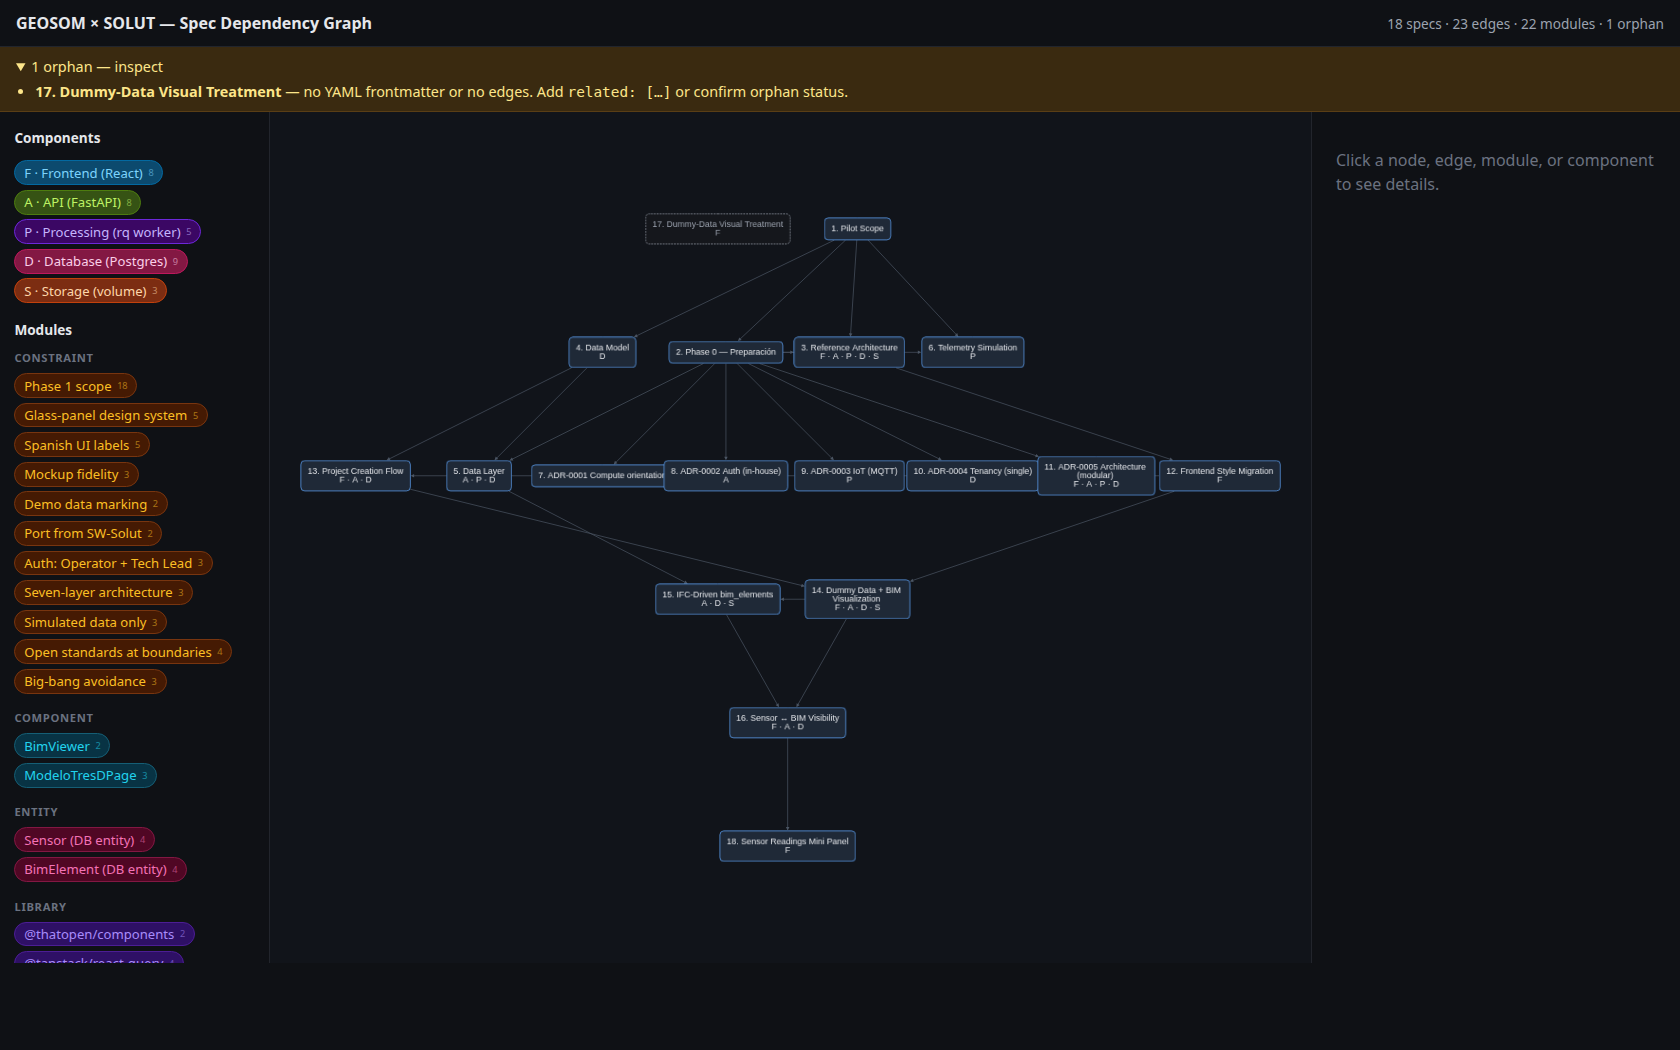
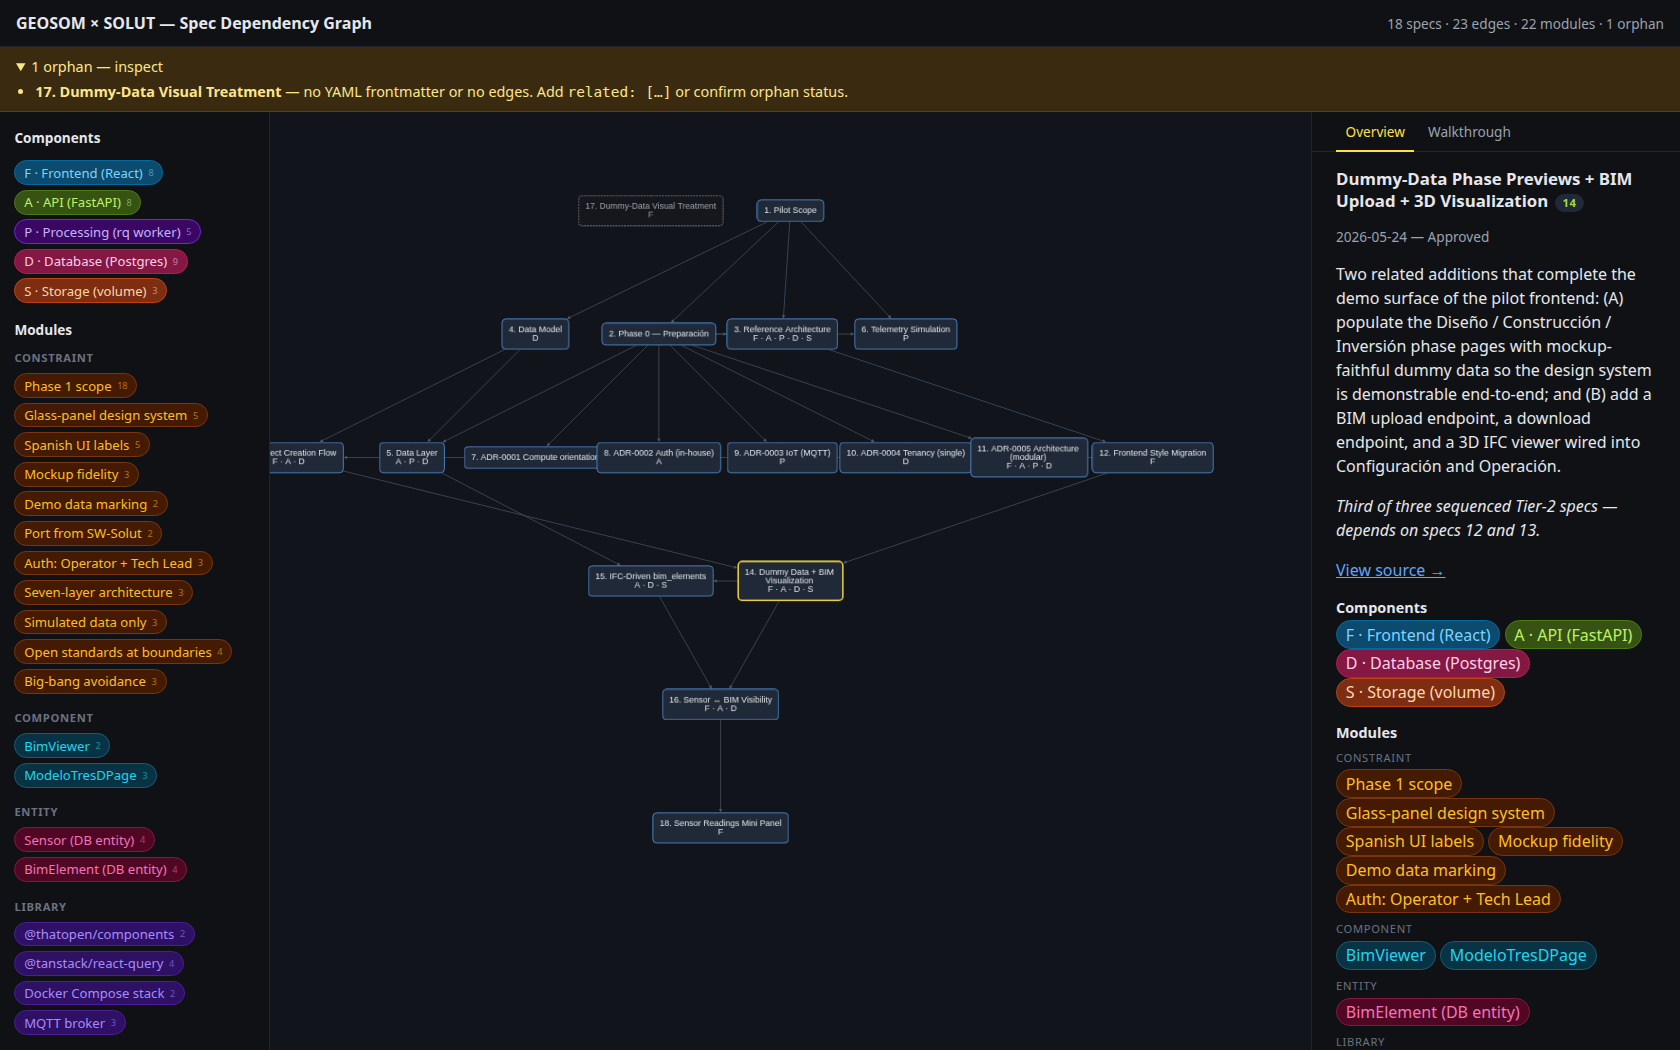
docs: show a selected node in the screenshot; drop local-testing install steps

diff --git a/README.md b/README.md
@@ -34,13 +34,6 @@ you keep a taxonomy file, and where to write the output.
 
 (The `@spec-graph` suffix is the marketplace name. Add via a **git** URL/owner-repo, not a direct link to `marketplace.json`, so the relative plugin source resolves.)
 
-For local testing before publishing, point the marketplace at your local clone:
-
-```
-/plugin marketplace add ~/Desktop/spec-graph
-/plugin install spec-graph@spec-graph
-```
-
 Then just ask Claude: *"build a spec graph for my specs in `docs/specs/`"* (or
 *"show me how my specs depend on each other"*).
 
